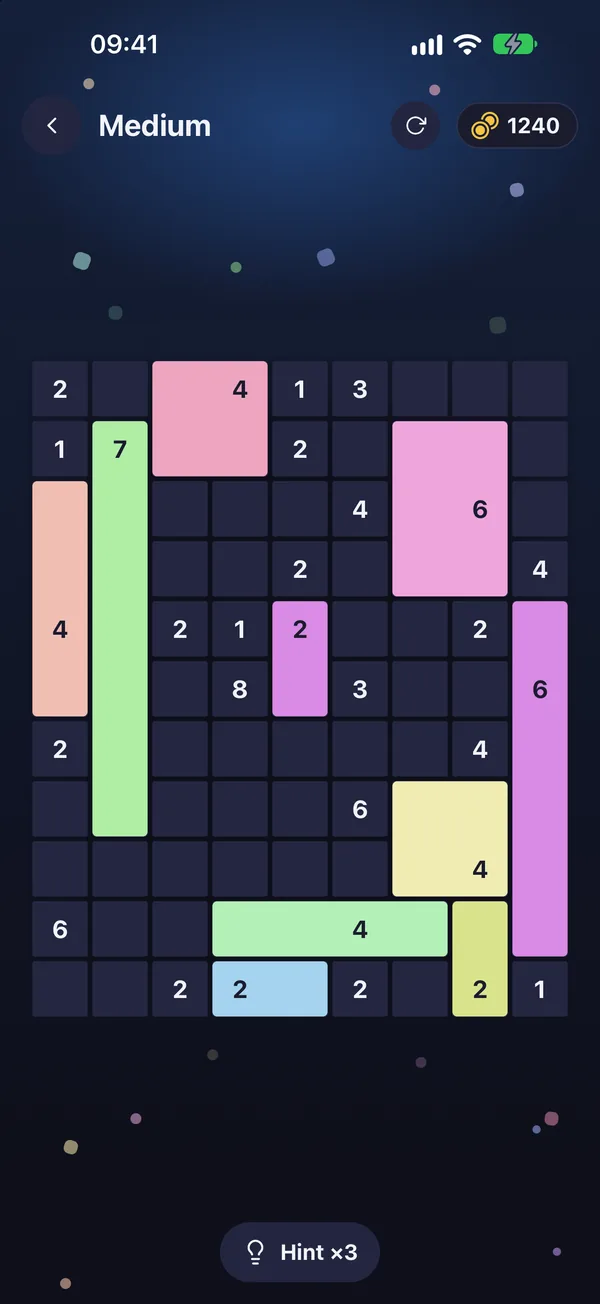
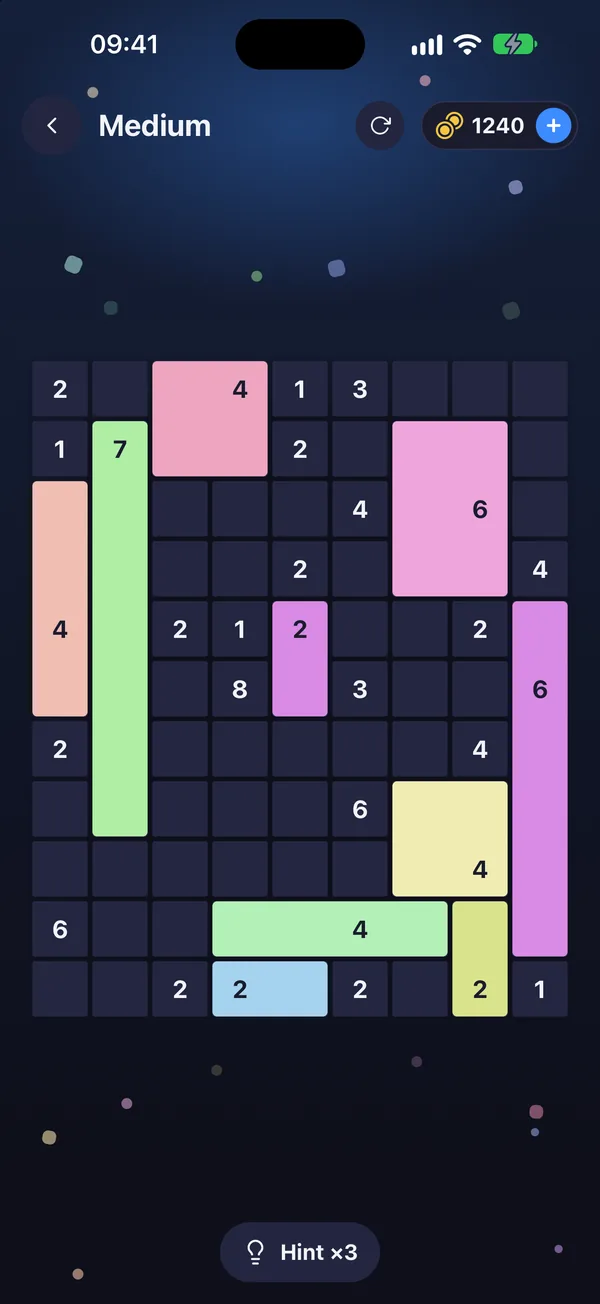
Pixtangle: fresh screenshots, with a Marathon frame
Taken from the store shoot of 1.10.0. Every frame now has the camera cutout:
the simulator leaves it in some frames only, so tools/images.py draws it with
--island. The link preview is redrawn from the new frames.

diff --git a/pixtangle/index.html b/pixtangle/index.html
@@ -42,7 +42,7 @@
     <div class="stores"><a class="store" href="https://apps.apple.com/app/id6802114673"><img src="/assets/badges/app-store.svg" width="144" height="48" alt="Download Pixtangle on the App Store"></a><a class="store" href="https://play.google.com/store/apps/details?id=com.pixtangle"><img src="/assets/badges/google-play.png" width="161" height="48" alt="Get Pixtangle on Google Play"></a></div>
     <p class="platforms">Free on iPhone, iPad and Android</p>
   </div>
-  <div class="game-hero-art"><div class="phones"><figure class="device phone-left"><img src="/pixtangle/images/screen-1.webp" width="600" height="1304" alt="A Medium board with rectangles in progress" loading="eager" decoding="async"></figure><figure class="device phone-right"><img src="/pixtangle/images/screen-4.webp" width="600" height="1304" alt="The collection of pixel arts by category" loading="eager" decoding="async"></figure><figure class="device phone-center"><img src="/pixtangle/images/screen-3.webp" width="600" height="1304" alt="The finished lion pixel art" loading="eager" decoding="async"></figure></div></div>
+  <div class="game-hero-art"><div class="phones"><figure class="device phone-left"><img src="/pixtangle/images/screen-1.webp" width="600" height="1304" alt="A Medium board with rectangles in progress" loading="eager" decoding="async"></figure><figure class="device phone-right"><img src="/pixtangle/images/screen-4.webp" width="600" height="1304" alt="The collection of pixel arts by category" loading="eager" decoding="async"></figure><figure class="device phone-center"><img src="/pixtangle/images/screen-3.webp" width="600" height="1304" alt="The finished sakura pixel art" loading="eager" decoding="async"></figure></div></div>
 </section>
 
 <section class="block wrap rules" aria-labelledby="rules-title">
@@ -62,11 +62,12 @@
   <div class="wrap section-head"><h2 id="gallery-title">A closer look</h2></div>
   <div class="shots" tabindex="0" aria-label="Screenshots">
     <figure class="device shot"><img src="/pixtangle/images/screen-1.webp" width="600" height="1304" alt="A Medium board with rectangles in progress" loading="lazy" decoding="async"></figure>
-    <figure class="device shot"><img src="/pixtangle/images/screen-2.webp" width="600" height="1304" alt="The sakura board halfway to its pixel art" loading="lazy" decoding="async"></figure>
-    <figure class="device shot"><img src="/pixtangle/images/screen-3.webp" width="600" height="1304" alt="The finished lion pixel art" loading="lazy" decoding="async"></figure>
+    <figure class="device shot"><img src="/pixtangle/images/screen-2.webp" width="600" height="1304" alt="The sakura board before the first rectangle" loading="lazy" decoding="async"></figure>
+    <figure class="device shot"><img src="/pixtangle/images/screen-3.webp" width="600" height="1304" alt="The finished sakura pixel art" loading="lazy" decoding="async"></figure>
     <figure class="device shot"><img src="/pixtangle/images/screen-4.webp" width="600" height="1304" alt="Collections of pixel arts by category" loading="lazy" decoding="async"></figure>
     <figure class="device shot"><img src="/pixtangle/images/screen-5.webp" width="600" height="1304" alt="The daily challenge calendar" loading="lazy" decoding="async"></figure>
-    <figure class="device shot"><img src="/pixtangle/images/screen-6.webp" width="600" height="1304" alt="Six difficulties of classic levels" loading="lazy" decoding="async"></figure>
+    <figure class="device shot"><img src="/pixtangle/images/screen-6.webp" width="600" height="1304" alt="A Marathon run: boards against the clock" loading="lazy" decoding="async"></figure>
+    <figure class="device shot"><img src="/pixtangle/images/screen-7.webp" width="600" height="1304" alt="Six difficulties of classic levels" loading="lazy" decoding="async"></figure>
   </div>
 </section>
 

diff --git a/index.html b/index.html
@@ -61,7 +61,7 @@
     <div class="stores"><a class="store" href="https://apps.apple.com/app/id6802114673"><img src="/assets/badges/app-store.svg" width="144" height="48" alt="Download Pixtangle on the App Store"></a><a class="store" href="https://play.google.com/store/apps/details?id=com.pixtangle"><img src="/assets/badges/google-play.png" width="161" height="48" alt="Get Pixtangle on Google Play"></a></div>
     <a class="more" href="/pixtangle/">Discover Pixtangle <svg width="18" height="18" viewBox="0 0 24 24" aria-hidden="true"><path d="M5 12h13m-5-6 6 6-6 6" fill="none" stroke="currentColor" stroke-width="2.4" stroke-linecap="round" stroke-linejoin="round"/></svg></a>
   </div>
-  <a class="game-card-art" href="/pixtangle/" tabindex="-1" aria-hidden="true"><div class="phones"><figure class="device phone-left"><img src="/pixtangle/images/screen-1.webp" width="600" height="1304" alt="A Medium board with rectangles in progress" loading="lazy" decoding="async"></figure><figure class="device phone-right"><img src="/pixtangle/images/screen-4.webp" width="600" height="1304" alt="The collection of pixel arts by category" loading="lazy" decoding="async"></figure><figure class="device phone-center"><img src="/pixtangle/images/screen-3.webp" width="600" height="1304" alt="The finished lion pixel art" loading="lazy" decoding="async"></figure></div></a>
+  <a class="game-card-art" href="/pixtangle/" tabindex="-1" aria-hidden="true"><div class="phones"><figure class="device phone-left"><img src="/pixtangle/images/screen-1.webp" width="600" height="1304" alt="A Medium board with rectangles in progress" loading="lazy" decoding="async"></figure><figure class="device phone-right"><img src="/pixtangle/images/screen-4.webp" width="600" height="1304" alt="The collection of pixel arts by category" loading="lazy" decoding="async"></figure><figure class="device phone-center"><img src="/pixtangle/images/screen-3.webp" width="600" height="1304" alt="The finished sakura pixel art" loading="lazy" decoding="async"></figure></div></a>
 </article>
   <article class="game-card frame-stitch" data-scheme="light" style="--bg:#F2ECE0;--surface:#FBF8F2;--surface2:#E7DFCF;--line:#D3C6AE;--text:#2A231C;--muted:#5F5444;--accent:#B3263A;--accent-text:#FFFFFF;--glow:rgba(179, 38, 58, 0.12);--glow2:rgba(46, 122, 82, 0.12)" id="stitch-tales">
   <div class="game-card-text">

diff --git a/tools/images.py b/tools/images.py
@@ -3,6 +3,9 @@
 
     python3 tools/images.py <slug> --icon icon-1024.png --screens 01.png 02.png ...
 
+--island draws the camera cutout on the screenshots: the simulator leaves it in
+some frames and not in others, and side by side they look like different phones.
+
 Writes <slug>/images/icon.webp (256 px, shown at up to 120 px) and
 <slug>/images/screen-<n>.webp (600 px wide, shown at up to 280 px), numbered in
 the order given. Needs Pillow with WebP support.
@@ -10,11 +13,13 @@ the order given. Needs Pillow with WebP support.
 import argparse
 import os
 
-from PIL import Image
+from PIL import Image, ImageDraw
 
 ROOT = os.path.dirname(os.path.dirname(os.path.abspath(__file__)))
 ICON_SIZE = 256
 SCREEN_WIDTH = 600
+# The cutout as measured on a 1320 x 2868 frame of the 6.9" iPhone
+ISLAND_BOX = (518 / 1320, 42 / 1320, 802 / 1320, 152 / 1320)
 
 
 def save_webp(image, path, quality):
@@ -28,6 +33,7 @@ def main():
     parser.add_argument('slug')
     parser.add_argument('--icon')
     parser.add_argument('--screens', nargs='*', default=[])
+    parser.add_argument('--island', action='store_true')
     args = parser.parse_args()
     folder = os.path.join(ROOT, args.slug, 'images')
 
@@ -37,6 +43,9 @@ def main():
 
     for index, path in enumerate(args.screens, start=1):
         screen = Image.open(path).convert('RGB')
+        if args.island:
+            box = [round(side * screen.width) for side in ISLAND_BOX]
+            ImageDraw.Draw(screen).rounded_rectangle(box, (box[3] - box[1]) // 2, fill=(0, 0, 0))
         height = round(screen.height * SCREEN_WIDTH / screen.width)
         screen = screen.resize((SCREEN_WIDTH, height), Image.LANCZOS)
         save_webp(screen, os.path.join(folder, f'screen-{index}.webp'), 82)
